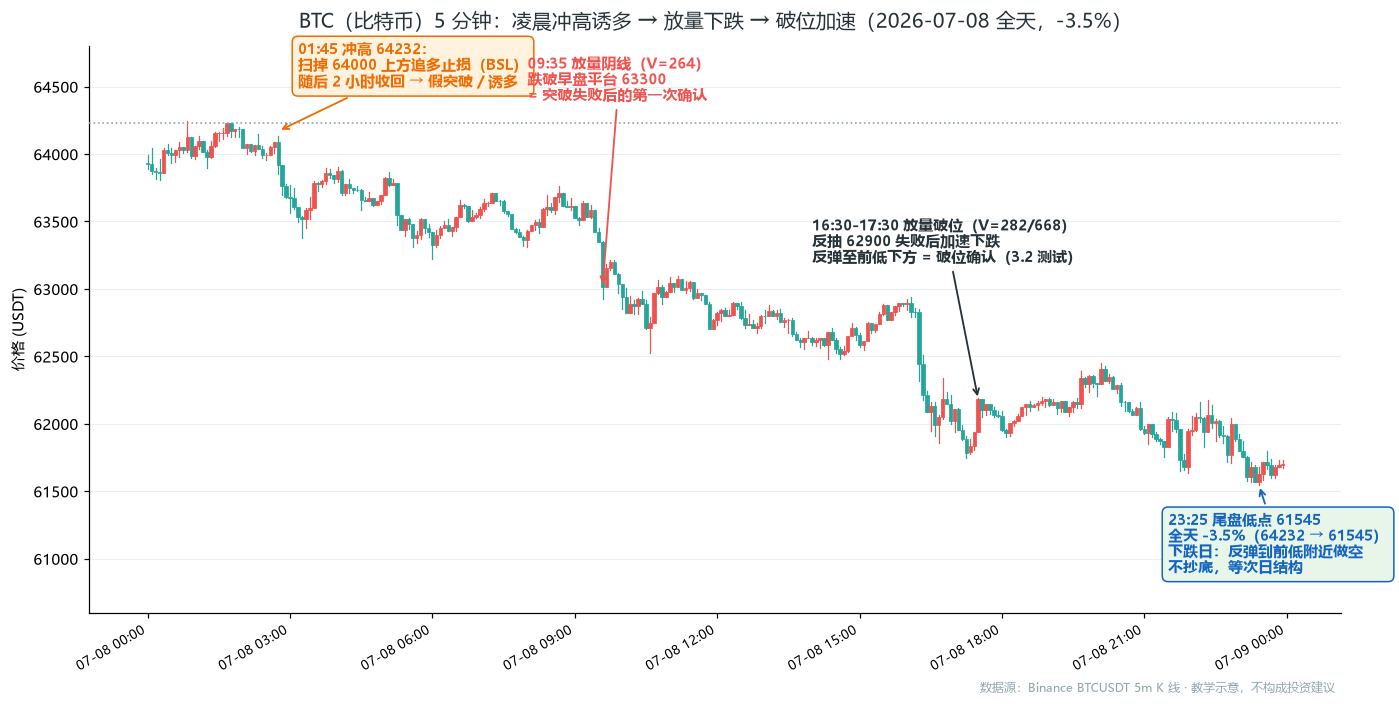
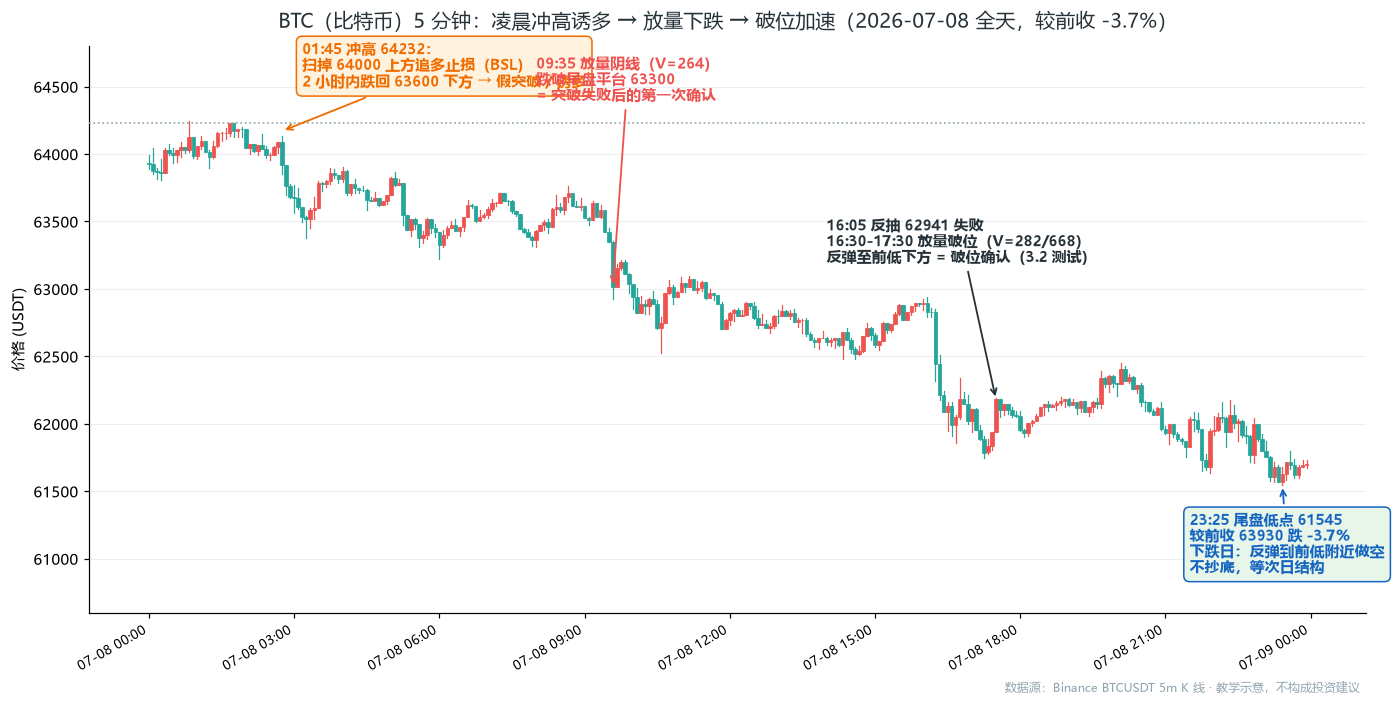
批次81：逐章内容审查修复（第1/2/3/4/6章）
- 02章：2-2R品种错配修复（ETH图配BTC正文→按ETH实际数据1798→1879→1937重写）；"494点下影"术语修正为"约370点长下影"（严格下影=min(开,收)-最低）
- 03章：3-1R前收63764→63930、15:30反抽→16:05反抽62941、全天-3.5%→较前收-3.7%；3-2R下影494→370、交叉引用2-2R→2-1R
- 04章：4-3R品种错配修复（正文ETH但配BTC 8/2-8/4图→重画ETH 7/2全天区间图fig_real_eth_range.png，修正20:30突破时间线）；4-9R日期错配修复（正文6/29但图是7/21→重画BTC 6/29突破生命周期fig_real_btc_day.png，60233为高点非收盘价）
- 01章杠杆算例、06章EURUSD价格修正
- 同步更新_real_figs2.py标注并重跑5张真实图、_real_crypto_figs.py重画2张

diff --git a/tools/_real_crypto_figs.py b/tools/_real_crypto_figs.py
@@ -99,116 +99,112 @@ fmt_ax(ax, "ETH（以太坊）5 分钟：两段式移动（2LD）——第一腿
 fig.savefig("handbook/images/fig_real_eth_2leg.png", bbox_inches="tight", facecolor="white")
 print("saved: fig_real_eth_2leg.png")
 
-# ============ 2. BTC 一个交易日状态机（4-2R，第4章 4.7） ============
+# ============ 2. BTC 突破生命周期（4-9R，第4章 4.29） ============
 df = pd.read_csv("data/btcusdt_5m.csv", parse_dates=["time"])
-seg = df[(df.time >= "2026-07-21 00:00") & (df.time <= "2026-07-21 23:55")].reset_index(drop=True)
+seg = df[(df.time >= "2026-06-29 08:00") & (df.time <= "2026-06-29 16:00")].reset_index(drop=True)
 
 fig, ax = plt.subplots(figsize=(13, 6.5), dpi=110)
 fig.patch.set_facecolor("white")
 ax.set_facecolor("white")
 draw_candles(ax, seg)
 
-# 阶段标注
-ax.axvspan(pd.Timestamp("2026-07-21 00:00"), pd.Timestamp("2026-07-21 13:30"),
+# 区间上下沿（08:40-11:00）
+ax.axvspan(pd.Timestamp("2026-06-29 08:40"), pd.Timestamp("2026-06-29 11:00"),
            color="#1565c0", alpha=0.06, zorder=1)
-ax.text(pd.Timestamp("2026-07-21 01:20"), 65780, "TR 交易区间（13 小时）\n高抛低吸 · 突破多为假\n约 80% 突破失败", fontsize=9.5,
-        color=BLUE, fontweight="bold", zorder=6, ha="left")
+ax.axhline(59700, color=BLUE, lw=1.2, ls="--", zorder=4)
+ax.axhline(58900, color=BLUE, lw=1.2, ls="--", zorder=4)
+ax.text(pd.Timestamp("2026-06-29 08:05"), 59800, "区间上沿 ≈ 59700\n（08:55、10:35 两次测试）", fontsize=9.5,
+        color=BLUE, fontweight="bold", zorder=6)
+ax.text(pd.Timestamp("2026-06-29 08:05"), 58750, "区间下沿 ≈ 58900\n（10:10 测试）", fontsize=9.5,
+        color=BLUE, fontweight="bold", zorder=6)
 
-# 突破点 13:45
-t1 = pd.Timestamp("2026-07-21 13:45")
-ax.axvline(t1, color=ORANGE, lw=1.2, ls=":", zorder=4)
-ax.annotate("13:45 突破：大实体阳线\n收盘站上区间高点（65743）\n跟随：14:35 续创新高 65991\n→ 状态切换 TR → TD",
-            xy=(t1 + pd.Timedelta(minutes=50), 65900),
-            xytext=(t1 + pd.Timedelta(minutes=180), 65500),
+# 突破 11:05-11:25
+ax.annotate("11:05 放量阳线突破前高（V=232）\n11:25 冲高 60233（突破后新高）\n→ 突破发生，切系统一",
+            xy=(pd.Timestamp("2026-06-29 11:25"), 60233),
+            xytext=(pd.Timestamp("2026-06-29 09:15"), 60450),
             fontsize=9.5, color=ORANGE, fontweight="bold", zorder=6,
             arrowprops=dict(arrowstyle="->", color=ORANGE, lw=1.2))
 
-# 浅回调 15:05-15:25
-ax.annotate("浅回调（3 根，约 0.2%）\n回调低点 65866 高于前低\n= H2 回调：顺势入场点\n止损放回调低点下方",
-            xy=(pd.Timestamp("2026-07-21 15:20"), 65866),
-            xytext=(pd.Timestamp("2026-07-21 15:50"), 65620),
+# 回踩守住 11:35
+ax.annotate("11:35 回踩 59878 不破上沿\n= 突破测试成功：顺势入场点\n止损放回踩低点下方",
+            xy=(pd.Timestamp("2026-06-29 11:35"), 59878),
+            xytext=(pd.Timestamp("2026-06-29 12:15"), 59520),
             fontsize=9.5, color=TEAL, fontweight="bold", zorder=6,
             arrowprops=dict(arrowstyle="->", color=TEAL, lw=1.2))
 
-# 第二腿 16:10-18:35
-t2 = pd.Timestamp("2026-07-21 16:10")
-ax.annotate("第二腿：16:10 再拉升\n18:35 触及日内高点 66421\n两段式移动（2LD）兑现",
-            xy=(t2 + pd.Timedelta(minutes=80), 66300),
-            xytext=(t2 + pd.Timedelta(minutes=200), 66520),
-            fontsize=9.5, color=TEAL, fontweight="bold", zorder=6,
-            arrowprops=dict(arrowstyle="->", color=TEAL, lw=1.2))
-
-# 尾盘回落
-ax.annotate("19:10 后回落（-0.3%）\n趋势末段：高潮后不追\n次日 7/22 开盘即跌",
-            xy=(pd.Timestamp("2026-07-21 19:10"), 66200),
-            xytext=(pd.Timestamp("2026-07-21 19:45"), 65960),
+# 深回调 13:10
+ax.annotate("13:10 深回调 59392\n跌回区间内部 = 测试失败\n持仓者被扫止损，但别反手\n它可能是新一轮突破的起点",
+            xy=(pd.Timestamp("2026-06-29 13:10"), 59392),
+            xytext=(pd.Timestamp("2026-06-29 13:45"), 58820),
             fontsize=9.5, color=RED, fontweight="bold", zorder=6,
             bbox=dict(boxstyle="round,pad=0.4", facecolor="#fff8e1", edgecolor=RED, lw=1),
             arrowprops=dict(arrowstyle="->", color=RED, lw=1.2))
 
-ax.set_ylim(65000, 66800)
-fmt_ax(ax, "BTC（比特币）5 分钟：一个交易日走一遍——TR 区间 → 突破 → 浅回调 → 第二腿 → 尾盘回落（2026-07-21）",
+# 第二腿 14:15
+ax.annotate("14:15 反转再上 60346 新高\n= 失败的回调本身成了新突破\n每一步都等收盘确认",
+            xy=(pd.Timestamp("2026-06-29 14:15"), 60346),
+            xytext=(pd.Timestamp("2026-06-29 13:55"), 60420),
+            fontsize=9.5, color=TEAL, fontweight="bold", zorder=6,
+            arrowprops=dict(arrowstyle="->", color=TEAL, lw=1.2))
+
+ax.set_ylim(58650, 60650)
+fmt_ax(ax, "BTC（比特币）5 分钟：突破生命周期——区间 → 突破 → 回踩守住 → 深回调失败 → 第二腿（2026-06-29）",
        "数据源：Binance BTCUSDT 5m K 线 · 教学示意，不构成投资建议")
 fig.savefig("handbook/images/fig_real_btc_day.png", bbox_inches="tight", facecolor="white")
 print("saved: fig_real_btc_day.png")
 
-# ============ 3. BTC 交易区间双底+突破（4-4R，第4章 4.4） ============
-df = pd.read_csv("data/btcusdt_5m.csv", parse_dates=["time"])
-seg = df[(df.time >= "2026-08-02 00:00") & (df.time <= "2026-08-04 23:55")].reset_index(drop=True)
+# ============ 3. ETH 交易区间完整生命周期（4-3R，第4章 4.4） ============
+df = pd.read_csv("data/ethusdt_5m.csv", parse_dates=["time"])
+seg = df[(df.time >= "2026-07-02 00:00") & (df.time <= "2026-07-02 23:55")].reset_index(drop=True)
 
 fig, ax = plt.subplots(figsize=(13, 6.5), dpi=110)
 fig.patch.set_facecolor("white")
 ax.set_facecolor("white")
 draw_candles(ax, seg)
 
-# 区间边界
-lo0, lo1 = 62275, 62585   # 8/2 02:30 低点 / 8/3 19:05 低点（双底）
-hi0, hi1 = 63548, 63610   # 8/2 10:05 高点 / 8/3 02:40 高点
-ax.axhline(63550, color=BLUE, lw=1.4, ls="--", zorder=4)
-ax.axhline(62400, color=BLUE, lw=1.4, ls="--", zorder=4)
-ax.text(pd.Timestamp("2026-08-02 00:10"), 63630, "区间上沿 ≈ 63550（两次测试）", fontsize=9.5, color=BLUE, fontweight="bold", zorder=6)
-ax.text(pd.Timestamp("2026-08-02 00:10"), 62280, "区间下沿 ≈ 62400（双底）", fontsize=9.5, color=BLUE, fontweight="bold", zorder=6)
+# 区间上下沿
+ax.axhline(1657, color=BLUE, lw=1.4, ls="--", zorder=4)
+ax.axhline(1614, color=BLUE, lw=1.4, ls="--", zorder=4)
+ax.text(pd.Timestamp("2026-07-02 00:10"), 1665, "区间上沿 ≈ 1657\n17:35 冲 1652、19:10 冲 1657 两次放量测试回落", fontsize=9.5,
+        color=BLUE, fontweight="bold", zorder=6)
+ax.text(pd.Timestamp("2026-07-02 00:10"), 1588, "区间下沿 ≈ 1614\n凌晨 00:50-01:05 多次测试后收回", fontsize=9.5,
+        color=BLUE, fontweight="bold", zorder=6)
 
-# 双底标注
-ax.annotate("下沿双底：8/2 低 62275\n8/3 低 62585（更高低点）\n扫掉下方止损后收回\n= 下沿假突破（3.2）",
-            xy=(pd.Timestamp("2026-08-03 19:05"), 62585),
-            xytext=(pd.Timestamp("2026-08-03 06:00"), 61600),
-            fontsize=9.5, color=TEAL, fontweight="bold", zorder=6,
-            arrowprops=dict(arrowstyle="->", color=TEAL, lw=1.2))
-
-# 上沿测试
-ax.annotate("上沿两次测试失败\n8/2 10:05 高 63548、8/3 02:40 高 63610\n→ 边界 fade：上沿做空、下沿做多",
-            xy=(pd.Timestamp("2026-08-03 02:40"), 63610),
-            xytext=(pd.Timestamp("2026-08-03 03:40"), 64400),
+# 上沿两次测试标注
+ax.annotate("17:35 放量冲高 1652（V=10881）\n19:10 再冲 1657（V=9734）\n两次都回落 = 边界 fade：上沿做空",
+            xy=(pd.Timestamp("2026-07-02 19:10"), 1657),
+            xytext=(pd.Timestamp("2026-07-02 16:30"), 1730),
             fontsize=9.5, color=ORANGE, fontweight="bold", zorder=6,
             arrowprops=dict(arrowstyle="->", color=ORANGE, lw=1.2))
 
-# 突破 8/3 21:55-22:55
-ax.annotate("8/3 21:55 突破上沿\n22:55 收盘 63967 站稳（+放量）\n→ 真突破三条件成立，切换趋势思维",
-            xy=(pd.Timestamp("2026-08-03 22:55"), 63993),
-            xytext=(pd.Timestamp("2026-08-03 23:30"), 64400),
-            fontsize=9.5, color=RED, fontweight="bold", zorder=6,
-            arrowprops=dict(arrowstyle="->", color=RED, lw=1.2))
-
-# 回踩确认
-ax.annotate("8/4 回踩 63840-63948 不破前高区域\n= 突破后的二次确认入场点\n目标：量度移动（区间高度投射）",
-            xy=(pd.Timestamp("2026-08-04 13:10"), 63840),
-            xytext=(pd.Timestamp("2026-08-04 14:30"), 63200),
+# 下沿测试标注
+ax.annotate("凌晨下沿 1614 多次测试\n扫掉下方止损后收回（3.2 假突破）",
+            xy=(pd.Timestamp("2026-07-02 00:50"), 1614),
+            xytext=(pd.Timestamp("2026-07-02 02:30"), 1570),
             fontsize=9.5, color=TEAL, fontweight="bold", zorder=6,
             arrowprops=dict(arrowstyle="->", color=TEAL, lw=1.2))
 
-# 新高
-ax.annotate("12:45 新高 64244\n区间 → 趋势：\n区间系统离场，转入系统一/三",
-            xy=(pd.Timestamp("2026-08-04 12:45"), 64244),
-            xytext=(pd.Timestamp("2026-08-04 08:30"), 64700),
-            fontsize=9.5, color=BLUE, fontweight="bold", zorder=6,
-            bbox=dict(boxstyle="round,pad=0.4", facecolor="#e8f5e9", edgecolor=BLUE, lw=1),
-            arrowprops=dict(arrowstyle="->", color=BLUE, lw=1.2))
+# 突破 20:25-21:30
+ax.annotate("20:25 放量阳线收 1663.8 站上上沿（第一根收盘站上）\n20:30 冲 1669.7 又插破收回 = 最后洗盘\n21:15-21:30 连续放量大阳站稳（1676.5 → 1706.3，V=10547）\n→ 真突破三条件齐，切趋势思维",
+            xy=(pd.Timestamp("2026-07-02 21:30"), 1706),
+            xytext=(pd.Timestamp("2026-07-02 14:00"), 1740),
+            fontsize=9.5, color=RED, fontweight="bold", zorder=6,
+            bbox=dict(boxstyle="round,pad=0.4", facecolor="#fff8e1", edgecolor=RED, lw=1),
+            arrowprops=dict(arrowstyle="->", color=RED, lw=1.2))
 
-fmt_ax(ax, "BTC（比特币）5 分钟：交易区间完整生命周期——双底下沿 → 上沿 fade → 真突破 → 回踩确认（2026-08-02 ~ 08-04）",
-       "数据源：Binance BTCUSDT 5m K 线 · 教学示意，不构成投资建议")
-fig.savefig("handbook/images/fig_real_btc_range.png", bbox_inches="tight", facecolor="white")
-print("saved: fig_real_btc_range.png")
+# 高潮 22:10
+ax.annotate("22:10 高潮 1725（+4%）\n22:20 起回落，23:05 低 1688.7\n高潮后不追",
+            xy=(pd.Timestamp("2026-07-02 22:10"), 1725),
+            xytext=(pd.Timestamp("2026-07-02 23:10"), 1770),
+            fontsize=9.5, color=DARK, fontweight="bold", zorder=6,
+            bbox=dict(boxstyle="round,pad=0.4", facecolor="#fff8e1", edgecolor=DARK, lw=1),
+            arrowprops=dict(arrowstyle="->", color=DARK, lw=1.2))
+
+ax.set_ylim(1555, 1795)
+fmt_ax(ax, "ETH（以太坊）5 分钟：交易区间完整生命周期——下沿多测 → 上沿双测 → 突破 → 高潮（2026-07-02）",
+       "数据源：Binance ETHUSDT 5m K 线 · 教学示意，不构成投资建议")
+fig.savefig("handbook/images/fig_real_eth_range.png", bbox_inches="tight", facecolor="white")
+print("saved: fig_real_eth_range.png")
 
 # ============ 4. BTC 扫流动性+CHoCH 反转日（5-1R，第5章 5.3/5.4） ============
 df = pd.read_csv("data/btcusdt_5m.csv", parse_dates=["time"])

diff --git a/handbook/03_entry_signals.md b/handbook/03_entry_signals.md
@@ -114,11 +114,11 @@
 
 **支撑位下方的反转 = 更高概率（Ali）**：市场**测试支撑位下方之后**的反转，是高概率买入信号——比在支撑位上方直接反转更可靠；如果市场**第二次**测试支撑位下方并形成第二次反转（2Rev），概率比第一次更高。逻辑：跌破支撑 = 扫掉支撑下方的止损单 = 流动性被收割，随后的反转没有止损盘的压制。用法：突破支撑假跌破后，等收盘收回支撑上方再入场，别在假跌破形成过程中抢跑。
 
-![图 3-1R 真实数据：凌晨冲高诱多 → 放量下跌 → 破位加速（BTC 5 分钟，2026-07-08，全天 -3.5%）](images/fig_real_fakeout.png)
+![图 3-1R 真实数据：凌晨冲高诱多 → 放量下跌 → 破位加速（BTC 5 分钟，2026-07-08，较前收 -3.7%）](images/fig_real_fakeout.png)
 
 *图 3-1R 真实数据：冲高诱多 → 下跌日（数据源：Binance BTCUSDT 5m K 线）*
 
-真实的一天，把 3.1-3.2 的框架走一遍：① **背景**：7/07 收 63764，7/08 凌晨开盘 63930——前期无明确趋势，上方 64000 一带是多次测试的阻力（7/06-7/07 的高点区），属于“位置一般”的追多环境；② **假突破**：01:45 冲到 64232 扫掉 64000 上方追多止损，但随后 2 小时收回 63600——突破失败，诱多成立，此时**只停止做多，不急着反手**；③ **第一次确认**：09:35 放量阴线（V=264）跌破早盘平台 63300，动能转空——这是顺势做空的第一入场点；④ **破位加速**：15:30 反抽 62900 失败，16:30-17:30 放量（V=282/668）跌破前低——第二次做空机会（破位后的回抽）；⑤ **纪律**：尾盘低点 61545，全天 -3.5%，反弹到前低下方才是空头加仓点，追跌不划算。五个步骤全是收盘确认，没有一次“抢跑”。
+真实的一天，把 3.1-3.2 的框架走一遍：① **背景**：7/07 收 63930，7/08 凌晨平开 63930——7/06 高点 63999、7/07 盘中曾冲 64700 未站稳又收回，64000 一带是多次冲击未果的高点区，属于“位置一般”的追多环境；② **假突破**：01:45 冲到 64232 扫掉 64000 上方追多止损，但 2 小时内就跌回 63600 下方——突破失败，诱多成立，此时**只停止做多，不急着反手**；③ **第一次确认**：09:35 放量阴线（V=264）跌破早盘平台 63300，动能转空——这是顺势做空的第一入场点；④ **破位加速**：16:05 反抽 62941 失败，16:30-17:30 放量（V=282/668）跌破前低——第二次做空机会（破位后的回抽）；⑤ **纪律**：尾盘低点 61545，较前收跌约 -3.7%（较日内高点则 -4.2%），反弹到前低下方才是空头加仓点，追跌不划算。五个步骤全是收盘确认，没有一次“抢跑”。
 
 ### 3.3 Pin Bar（锤子 / 吊颈） 【核心】
 
@@ -152,11 +152,11 @@
 
 **影线 50% 挂单的具体操作**：假设锤子线影线范围是 100.00-101.00，实体收在 100.80。影线 50% 位 = (100.00+101.00)/2 = 100.50。在 100.50 挂限价买单，止损放 99.90（影线最低点下方），目标看前高。价格回到 100.50 自动成交——成交价精确、止损距离短、盈亏比天然好。
 
-![图 3-2R 真实数据：巨量锤子线——下影 494 点 ≈ 4 倍实体，V=1551 全天最大（BTC 5 分钟，2026-07-01）](images/fig_real_pinbar.png)
+![图 3-2R 真实数据：巨量锤子线——下影约 370 点 ≈ 3 倍实体，V=1551 全天最大（BTC 5 分钟，2026-07-01）](images/fig_real_pinbar.png)
 
 *图 3-2R 真实数据：巨量锤子线实拍（数据源：Binance BTCUSDT 5m K 线）*
 
-把上面的规则套进真实的一根 K 线：① **形态**：09:10 这根 K 线开 58294、最低 57800、收 58170——下影 494 点，实体只有 124 点，下影 ≈ 4 倍实体，教科书级锤子线；② **量**：V=1551 是全天最大量，是平常 K 线的 10-30 倍——巨量 + 长下影 = 空头全力砸盘被多头全盘接住，这是信号可信度的第一权重（3.6 量价确认）；③ **位置**：砸到的 57800 正是 7/01 早盘多次测试的平台下沿，支撑位下方的插针（呼应 3.2 的“支撑下方反转更高概率”）；④ **确认与入场**：09:35-09:40 连续放量大阳线（V=255/173）突破 58500——锤子线确认成立，入场点在突破 58298（锤子线高点）或影线 50% 位回调挂单，止损 57800 下方；⑤ **结果**：后续 HH/HL 一路走到 59457（见图 2-2R 同一天的趋势结构）。注意失败情形也一样真实——锤子线出现后若 09:35 没有放量确认而是跌破 57800，这根锤子线就只是下跌中继。
+把上面的规则套进真实的一根 K 线：① **形态**：09:10 这根 K 线开 58294、最低 57800、收 58170——下影约 370 点，实体只有 124 点，下影 ≈ 3 倍实体，教科书级锤子线；② **量**：V=1551 是全天最大量，是平常 K 线的 10-30 倍——巨量 + 长下影 = 空头全力砸盘被多头全盘接住，这是信号可信度的第一权重（3.6 量价确认）；③ **位置**：砸到的 57800 正是 7/01 早盘多次测试的平台下沿，支撑位下方的插针（呼应 3.2 的“支撑下方反转更高概率”）；④ **确认与入场**：09:35-09:40 连续放量大阳线（V=255/173）突破 58500——锤子线确认成立，入场点在突破 58298（锤子线高点）或影线 50% 位回调挂单，止损 57800 下方；⑤ **结果**：后续 HH/HL 一路走到 59457（见图 2-1R 同一天的趋势结构）。注意失败情形也一样真实——锤子线出现后若 09:35 没有放量确认而是跌破 57800，这根锤子线就只是下跌中继。
 
 ### 3.4 吞没形态（Engulfing） 【核心】
 

diff --git a/handbook/04_trading_system.md b/handbook/04_trading_system.md
@@ -285,13 +285,13 @@
 
 两个月里区间上下沿各被测试多次：9-04 插破下沿 3800 到 3733 后收回（假突破，3.2 的反向机会）；10-13 下沿精确测试 3800.1 不破，当日 +2.3% 大阳；10-27 大阳收盘 3997 站上上沿（真突破三条件：收盘站稳 + 放量 + 大实体）；11-03 回测上沿 3937 不破（二次确认入场点）；11-14 突破后新高 4034。这是区间系统的完整生命周期：识别 → 边界 fade → 假突破反向 → 真突破后切换趋势思维（4.5）。
 
-**加密市场的 5 分钟版本（Binance ETHUSDT，2026-07-02 ~ 07-03）**——同一个生命周期，8 小时走完，节奏快 20 倍：
+**加密市场的 5 分钟版本（Binance ETHUSDT，2026-07-02）**——同一个生命周期，一天走完，节奏快几十倍：
 
-![图 4-3R 真实数据：区间完整生命周期——边界多测 → 真突破 → 高潮（ETH 5 分钟，2026-07-02 ~ 07-03）](images/fig_real_btc_range.png)
+![图 4-3R 真实数据：区间完整生命周期——边界多测 → 真突破 → 高潮（ETH 5 分钟，2026-07-02）](images/fig_real_eth_range.png)
 
 *图 4-3R 真实数据：区间 → 边界 fade → 真突破（数据源：Binance ETHUSDT 5m K 线）*
 
-四步对应：① **边界双测**：17:35 上沿 1652、19:10 上沿 1657 两次测试回落，下沿 1614/1644 也被多次测试——边界 fade 的机会（做空到中线/下沿落袋）；② **突破前兆**：19:55 下沿测试后低点抬高、K 线实体开始变大——突破在酝酿（4.4 的“成功 4 信号”）；③ **真突破**：20:30 大实体站上上沿 1669、放量，真突破三条件齐——区间思维到此结束，切趋势思维；④ **高潮回落**：22:10 高潮 1725（+4%），23:05 起回落——高潮后不追。三个注意：加密 5 分钟图的“边界测试”通常 2-3 次就要动手（不像日线可以等 4 次）；区间宽度 2.5% 左右（ETH 1614-1657）意味着止损距离小、盈亏比天然好；突破后**立即把止损移到突破位下方**。
+四步对应：① **边界双测**：17:35 上沿 1652、19:10 上沿 1657 两次放量测试回落，下沿 1614（凌晨多次测试）与下午回落低点 1644 一带也被反复测试——边界 fade 的机会（做空到中线/下沿落袋）；② **突破前兆**：19:55 下沿测试后低点抬高、K 线实体开始变大——突破在酝酿（4.4 的“成功 4 信号”）；③ **真突破**：20:25 放量阳线收 1663.8 站上上沿（第一根收盘站上），20:30 冲高 1669.7 又插破收回——这是突破前的最后洗盘；21:15-21:30 连续放量大阳站稳（1676.5 → 1706.3，V=10547）——真突破三条件齐，区间思维到此结束，切趋势思维；④ **高潮回落**：22:10 高潮 1725（+4%），22:20 起回落，23:05 低 1688.7——高潮后不追。三个注意：加密 5 分钟图的“边界测试”通常 2-3 次就要动手（不像日线可以等 4 次）；区间宽度 2.5% 左右（ETH 1614-1657）意味着止损距离小、盈亏比天然好；突破后**立即把止损移到突破位下方**。
 
 ### 4.5 系统三：突破交易 【核心】
 
@@ -1381,7 +1381,7 @@ always in（始终在场）是 Brooks 判断“当前走势方向”的方法—
 
 *图 4-9R 真实数据：突破生命周期（数据源：Binance BTCUSDT 5m K 线）*
 
-对照着读五幕：① **区间**：08:40-11:00 价格在 58900-59700 之间来回，上沿 59700/59588 被测试两次——默认区间逻辑（4.7：85% 的时间在区间里）；② **突破**：11:25 大实体阳线收盘站上区间上沿 60233——突破发生，切系统一；③ **回踩守住**：11:35 回踩 59878 不破上沿——突破测试成功，顺势入场点，止损放回踩低点下方；④ **深回调（失败）**：13:10 59392 跌回区间内部——这次测试失败，突破进入假突破模式（呼应 3.2），持仓者被扫止损，但**别反手**：它可能是新一轮突破的起点；⑤ **第二腿**：14:15 反转再上 60346 新高——失败的回调本身成了新突破。**每一步都等收盘确认**：你在 11:25 突破时追入，13:10 会被扫；等 11:35 回踩确认再入，才有资格吃第二腿。加密 24 小时市场没有 9:30 开盘，但有同样的突破节奏：区间磨人时忍、突破时切、回踩时进、失败时走。
+对照着读五幕：① **区间**：08:40-11:00 价格在 58900-59700 之间来回，上沿 59700/59588 被测试两次——默认区间逻辑（4.7：85% 的时间在区间里）；② **突破**：11:05 放量阳线（V=232）突破前高，11:25 冲高 60233（突破后新高）——突破发生，切系统一；③ **回踩守住**：11:35 回踩 59878 不破上沿——突破测试成功，顺势入场点，止损放回踩低点下方；④ **深回调（失败）**：13:10 59392 跌回区间内部——这次测试失败，突破进入假突破模式（呼应 3.2），持仓者被扫止损，但**别反手**：它可能是新一轮突破的起点；⑤ **第二腿**：14:15 反转再上 60346 新高——失败的回调本身成了新突破。**每一步都等收盘确认**：你在 11:25 突破时追入，13:10 会被扫；等 11:35 回踩确认再入，才有资格吃第二腿。加密 24 小时市场没有 9:30 开盘，但有同样的突破节奏：区间磨人时忍、突破时切、回踩时进、失败时走。
 
 ### 本章自测（答案在本节末尾）
 

diff --git a/handbook/01_market_overview.md b/handbook/01_market_overview.md
@@ -235,7 +235,7 @@
 
 **强平（爆仓）机制**：当亏损把你的账户权益打到“维持保证金”以下，平台会强制平仓，不问你意见。注意这个机制的本质：**爆仓不是“亏光了”才发生，是亏到保证金比例不达标就发生**。高杠杆下，很小的反向波动就可能触发强平——这不是市场在惩罚你，是杠杆在放大你的仓位误差。
 
-算一笔具体的账：$10,000 账户，1:100 杠杆，下 1 手 EURUSD（名义 $100,000，占保证金 $1,000）。价格反向走 100 pips（$1,000 亏损），账户权益降到 $9,000，保证金比例 = 9,000 / 1,000 = 900%，还安全。但如果价格反向走 500 pips，权益 $5,000，保证金比例 500%——部分平台在 100% 以下强平，也就是说你**在价格反向走约 1% 时就被强平**，而你原本的止损可能在 0.5%（50 pips）——如果你的仓位是按“感觉”而不是按公式下的，止损还没触发，爆仓先来了。
+算一笔具体的账：$10,000 账户，1:100 杠杆，下 1 手 EURUSD（名义 $100,000，占保证金 $1,000）。价格反向走 100 pips（$1,000 亏损），账户权益降到 $9,000，保证金水平 = 9,000 / 1,000 = 900%，还安全。但如果价格反向走 500 pips，权益 $5,000，保证金水平 500%——部分平台在保证金水平跌破维持线（通常为初始保证金的一半）时强平：1 手的情形要反向约 9%（约 950 pips）才爆仓；可如果你按“感觉”把仓位下到 10 手（1:100 满仓，名义 $1,000,000），反向约 50 pips（≈0.5%）时保证金水平就触及维持线被强平——而你原本的止损可能就设在 0.5%（50 pips）——**止损还没触发（或刚触发就被强平），爆仓先来了**。
 
 **杠杆的真相——这是本章最重要的一句话**：
 

diff --git a/handbook/06_position_and_risk.md b/handbook/06_position_and_risk.md
@@ -61,7 +61,7 @@
 
 **走三个例子，把公式用熟**：
 
-**例一（外汇 EURUSD）**：$100,000 账户，风险 0.5% = $500。入场 100.00，止损 99.50（50 点）。每点 $1/手 → 每手止损亏损 = 50 × $1 = $50 → 手数 = $500 ÷ $50 = 10 手。
+**例一（外汇 EURUSD）**：$100,000 账户，风险 0.5% = $500。入场 1.1000，止损 1.0950（50 点）。每点 $1/手 → 每手止损亏损 = 50 × $1 = $50 → 手数 = $500 ÷ $50 = 10 手。
 
 **例二（黄金 XAUUSD）**：1 手 = 100 盎司，价格每动 $1 = 每手 $100。入场 2000，止损 1995（$5 = 每手 $500）。风险 $500 → 手数 = $500 ÷ $500 = 1 手。
 
